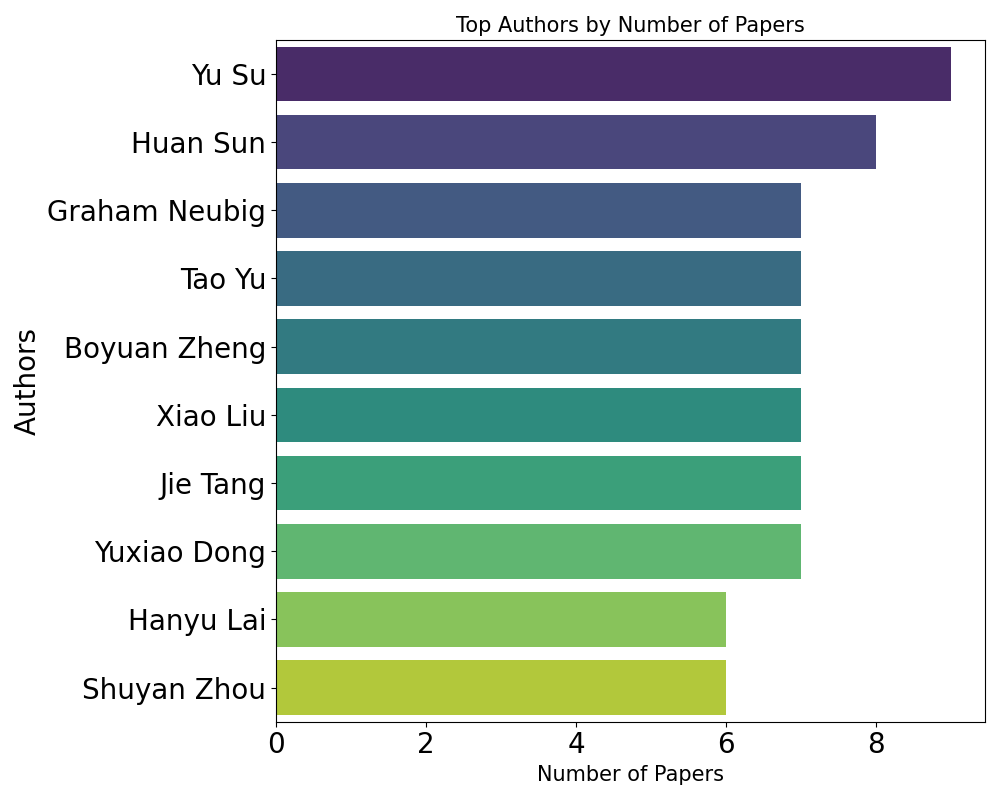
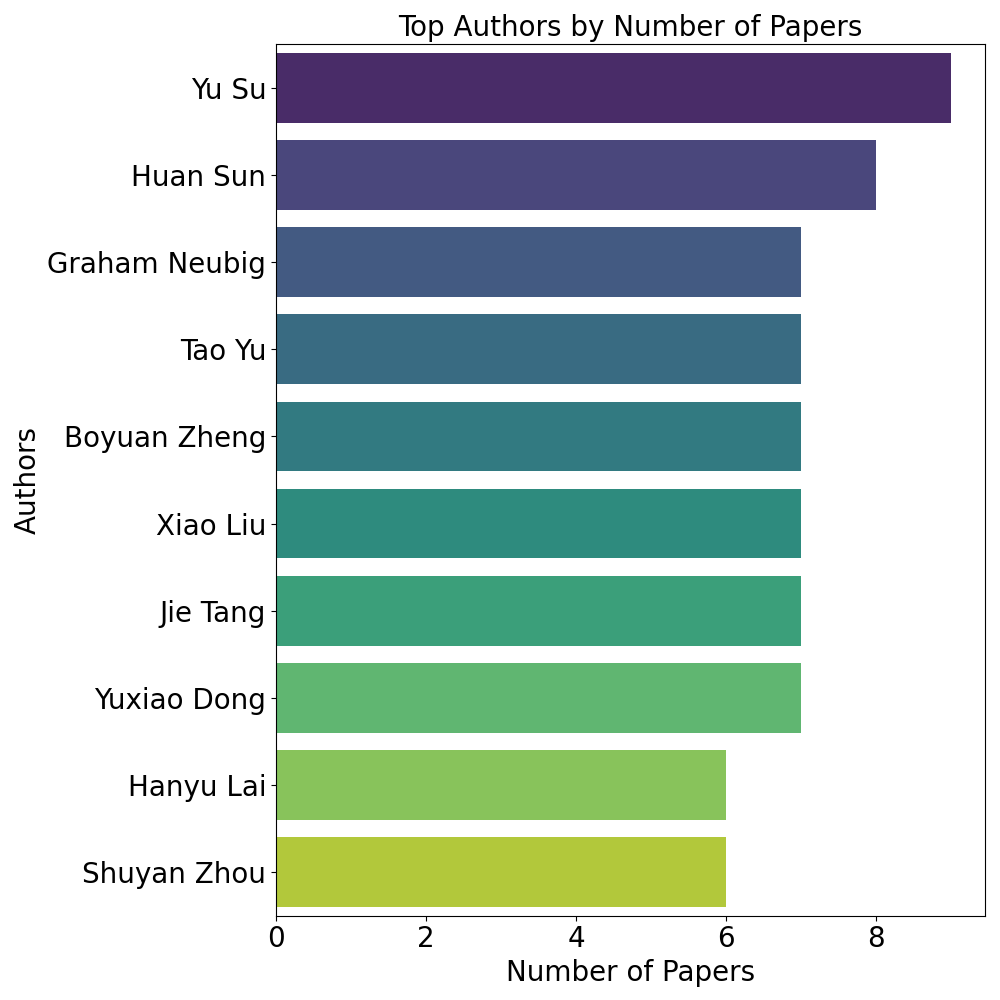
update

diff --git a/update_template_or_data/utils/scripts/sort_by_date.py b/update_template_or_data/utils/scripts/sort_by_date.py
@@ -189,12 +189,12 @@ top_15_authors = [author for author, _ in author_counter.most_common(num_top_aut
 top_15_counts = [author_counter[author] for author in top_15_authors]
 
 # 5. 创建条形图
-plt.figure(figsize=(10, 8))  # 设置图表大小
+plt.figure(figsize=(10, 10))  # 设置图表大小
 sns.barplot(x=top_15_counts, y=top_15_authors, palette="viridis")
 
 # 6. 设置图表标题和标签
-plt.title("Top Authors by Number of Papers", fontsize=15)
-plt.xlabel("Number of Papers", fontsize=15)
+plt.title("Top Authors by Number of Papers", fontsize=20)
+plt.xlabel("Number of Papers", fontsize=20)
 plt.ylabel("Authors", fontsize=20)
 
 # 7. 美化图表（可选）
@@ -242,7 +242,7 @@ keyword_counts = Counter(all_keywords)
 print(keyword_counts)
 wordcloud = WordCloud(
     width=1000,
-    height=800,
+    height=1000,
     background_color="white",
     colormap="viridis",
     contour_width=0,
@@ -250,7 +250,7 @@ wordcloud = WordCloud(
 ).generate_from_frequencies(keyword_counts)
 
 # Reduce DPI for better scaling
-plt.figure(figsize=(10, 8))
+plt.figure(figsize=(10, 10))
 plt.imshow(wordcloud, interpolation='bilinear')
 plt.axis('off')
 plt.tight_layout(pad=0)

diff --git a/update_template_or_data/update_paper_list.md b/update_template_or_data/update_paper_list.md
@@ -169,6 +169,15 @@
     - 🔑 Key: [dataset], [framework], [synthetic data]
     - 📖 TLDR: The *EDGE* framework proposes an innovative approach to improve GUI understanding and interaction capabilities in vision-language models through large-scale, multi-granularity synthetic data generation. By leveraging webpage data, EDGE minimizes the need for manual annotations and enhances the adaptability of models across desktop and mobile GUI environments. Evaluations show its effectiveness in diverse GUI-related tasks, contributing significantly to autonomous agent development in GUI navigation and interaction.
 
+- [VideoWebArena: Evaluating Long Context Multimodal Agents with Video Understanding Web Tasks](https://doi.org/10.48550/arXiv.2410.19100)
+    - Lawrence Jang, Yinheng Li, Charles Ding, Justin Lin, Paul Pu Liang, Dan Zhao, Rogerio Bonatti, Kazuhito Koishida
+    - 🏛 Institutions: CMU, MIT, NYU, Microsoft
+    - 📅 Date: October 24, 2024
+    - 📑 Publisher: arXiv
+    - 💻 Env: [Web]
+    - 🔑 Key: [benchmark], [dataset], [video understanding], [long-context], [VideoWA]
+    - 📖 TLDR: This paper introduces **VideoWebArena (VideoWA)**, a benchmark assessing multimodal agents in video-based tasks. It features over 2,000 tasks focused on skill and factual retention, using video tutorials to simulate long-context environments. Results highlight current challenges in agentic abilities, providing a critical testbed for long-context video understanding improvements.
+
 - [AgentStore: Scalable Integration of Heterogeneous Agents As Specialized Generalist Computer Assistant](https://arxiv.org/abs/2410.18603)
     - Chengyou Jia, Minnan Luo, Zhuohang Dang, Qiushi Sun, Fangzhi Xu, Junlin Hu, Tianbao Xie, Zhiyong Wu
     - 🏛 Institutions: XJTU, Shanghai AI Lab, HKU
@@ -186,15 +195,6 @@
     - 💻 Env: [Web]
     - 🔑 Key: [API-based agent], [hybrid agent], [benchmark], [WebArena], [SOTA performance]
     - 📖 TLDR: This paper introduces API-based and hybrid agents designed to execute online tasks by accessing both APIs and traditional web browsing interfaces. In evaluations using WebArena, a benchmark for web navigation, the API-based agent achieves higher performance than browser-based agents, and the hybrid model achieves a success rate of 35.8%, setting a new state-of-the-art (SOTA) in task-agnostic web navigation. The findings highlight the efficiency and reliability gains of API interactions for web agents.
-
-- [VideoWebArena: Evaluating Long Context Multimodal Agents with Video Understanding Web Tasks](https://doi.org/10.48550/arXiv.2410.19100)
-    - Lawrence Jang, Yinheng Li, Charles Ding, Justin Lin, Paul Pu Liang, Dan Zhao, Rogerio Bonatti, Kazuhito Koishida
-    - 🏛 Institutions: CMU, MIT, NYU, Microsoft
-    - 📅 Date: October 24, 2024
-    - 📑 Publisher: arXiv
-    - 💻 Env: [Web]
-    - 🔑 Key: [benchmark], [dataset], [video understanding], [long-context], [VideoWA]
-    - 📖 TLDR: This paper introduces **VideoWebArena (VideoWA)**, a benchmark assessing multimodal agents in video-based tasks. It features over 2,000 tasks focused on skill and factual retention, using video tutorials to simulate long-context environments. Results highlight current challenges in agentic abilities, providing a critical testbed for long-context video understanding improvements.
 
 - [MobileSafetyBench: Evaluating Safety of Autonomous Agents in Mobile Device Control](https://arxiv.org/abs/2410.17520)
     - Juyong Lee, Dongyoon Hahm, June Suk Choi, W. Bradley Knox, Kimin Lee
@@ -268,15 +268,6 @@
     - 🔑 Key: [framework], [autonomous GUI interaction], [experience-augmented hierarchical planning]
     - 📖 TLDR: This paper introduces Agent S, an open agentic framework that enables autonomous interaction with computers through a Graphical User Interface (GUI). The system addresses key challenges in automating computer tasks through experience-augmented hierarchical planning and an Agent-Computer Interface (ACI). Agent S demonstrates significant improvements over baselines on the OSWorld benchmark, achieving a 20.58% success rate (83.6% relative improvement). The framework shows generalizability across different operating systems and provides insights for developing more effective GUI agents.
 
-- [ST-WebAgentBench: A Benchmark for Evaluating Safety and Trustworthiness in Web Agents](https://sites.google.com/view/st-webagentbench/home)
-    - Ido Levy, Ben Wiesel, Sami Marreed, Alon Oved, Avi Yaeli, Segev Shlomov
-    - 🏛 Institutions: IBM Research
-    - 📅 Date: October 9, 2024
-    - 📑 Publisher: arXiv
-    - 💻 Env: [Web]
-    - 🔑 Key: [benchmark], [safety], [trustworthiness], [ST-WebAgentBench]
-    - 📖 TLDR: This paper introduces **ST-WebAgentBench**, a benchmark designed to evaluate the safety and trustworthiness of web agents in enterprise contexts. It defines safe and trustworthy agent behavior, outlines the structure of safety policies, and introduces the "Completion under Policies" metric to assess agent performance. The study reveals that current state-of-the-art agents struggle with policy adherence, highlighting the need for improved policy awareness and compliance in web agents.
-
 - [TinyClick: Single-Turn Agent for Empowering GUI Automation](https://arxiv.org/abs/2410.11871)
     - Pawel Pawlowski, Krystian Zawistowski, Wojciech Lapacz, Marcin Skorupa, Adam Wiacek, Sebastien Postansque, Jakub Hoscilowicz
     - 🏛 Institutions: Samsung R&D Poland, Warsaw University of Technology
@@ -294,6 +285,15 @@
     - 💻 Env: [Mobile]
     - 🔑 Key: [framework], [model], [SeeClick], [AITW benchmark]
     - 📖 TLDR: The paper introduces *ClickAgent*, a framework that enhances autonomous agents' interaction with mobile UIs by improving their ability to locate interface elements accurately. This is achieved through a dual-component system where an MLLM performs reasoning and action planning, while a dedicated UI location model (e.g., SeeClick) handles element identification. ClickAgent, evaluated on the AITW benchmark and tested on both emulators and real Android devices, surpasses other agents like CogAgent and AppAgent in task success rate, advancing automation reliability on mobile platforms.
+
+- [ST-WebAgentBench: A Benchmark for Evaluating Safety and Trustworthiness in Web Agents](https://sites.google.com/view/st-webagentbench/home)
+    - Ido Levy, Ben Wiesel, Sami Marreed, Alon Oved, Avi Yaeli, Segev Shlomov
+    - 🏛 Institutions: IBM Research
+    - 📅 Date: October 9, 2024
+    - 📑 Publisher: arXiv
+    - 💻 Env: [Web]
+    - 🔑 Key: [benchmark], [safety], [trustworthiness], [ST-WebAgentBench]
+    - 📖 TLDR: This paper introduces **ST-WebAgentBench**, a benchmark designed to evaluate the safety and trustworthiness of web agents in enterprise contexts. It defines safe and trustworthy agent behavior, outlines the structure of safety policies, and introduces the "Completion under Policies" metric to assess agent performance. The study reveals that current state-of-the-art agents struggle with policy adherence, highlighting the need for improved policy awareness and compliance in web agents.
 
 - [Navigating the Digital World as Humans Do: Universal Visual Grounding for GUI Agents](https://osu-nlp-group.github.io/UGround/)
     - Boyu Gou, Ruochen Wang, Boyuan Zheng, Yucheng Xie, Cheng Chang, Yiheng Shu, Haotian Sun, Yu Su
@@ -448,15 +448,6 @@
     - 🔑 Key: [framework], [AppAgent v2]
     - 📖 TLDR: This work presents *AppAgent v2*, a novel LLM-based multimodal agent framework for mobile devices capable of navigating applications by emulating human-like interactions such as tapping and swiping. The agent constructs a flexible action space that enhances adaptability across various applications, including parsing text and vision descriptions. It operates through two main phases: exploration and deployment, utilizing retrieval-augmented generation (RAG) technology to efficiently retrieve and update information from a knowledge base, thereby empowering the agent to perform tasks effectively and accurately.
 
-- [OmniParser for Pure Vision Based GUI Agent](https://microsoft.github.io/OmniParser/)
-    - Yadong Lu, Jianwei Yang, Yelong Shen, Ahmed Awadallah
-    - 🏛 Institutions: Microsoft Research, Microsoft Gen AI
-    - 📅 Date: August 1, 2024
-    - 📑 Publisher: arXiv
-    - 💻 Env: [GUI]
-    - 🔑 Key: [framework], [dataset], [OmniParser]
-    - 📖 TLDR: This paper introduces **OmniParser**, a method for parsing user interface screenshots into structured elements, enhancing the ability of models like GPT-4V to generate actions accurately grounded in corresponding UI regions. The authors curated datasets for interactable icon detection and icon description, fine-tuning models to parse interactable regions and extract functional semantics of UI elements.
-
 - [CoCo-Agent: A Comprehensive Cognitive MLLM Agent for Smartphone GUI Automation](https://aclanthology.org/2024.findings-acl.539)
     - Xinbei Ma, Zhuosheng Zhang, Hai Zhao
     - 🏛 Institutions: SJTU
@@ -474,6 +465,15 @@
     - 💻 Env: [General]
     - 🔑 Key: [multimodal agents], [environmental distractions], [robustness]
     - 📖 TLDR: This paper highlights the vulnerability of multimodal agents to environmental distractions. The researchers demonstrate that these agents, which process multiple types of input (e.g., text, images, audio), can be significantly impacted by irrelevant or misleading environmental cues. The study provides insights into the limitations of current multimodal systems and emphasizes the need for more robust architectures that can filter out distractions and maintain focus on relevant information in complex, real-world environments.
+
+- [OmniParser for Pure Vision Based GUI Agent](https://microsoft.github.io/OmniParser/)
+    - Yadong Lu, Jianwei Yang, Yelong Shen, Ahmed Awadallah
+    - 🏛 Institutions: Microsoft Research, Microsoft Gen AI
+    - 📅 Date: August 1, 2024
+    - 📑 Publisher: arXiv
+    - 💻 Env: [GUI]
+    - 🔑 Key: [framework], [dataset], [OmniParser]
+    - 📖 TLDR: This paper introduces **OmniParser**, a method for parsing user interface screenshots into structured elements, enhancing the ability of models like GPT-4V to generate actions accurately grounded in corresponding UI regions. The authors curated datasets for interactable icon detection and icon description, fine-tuning models to parse interactable regions and extract functional semantics of UI elements.
 
 - [OfficeBench: Benchmarking Language Agents across Multiple Applications for Office Automation](https://arxiv.org/abs/2407.19056)
     - Zilong Wang, Yuedong Cui, Li Zhong, Zimin Zhang, Da Yin, Bill Yuchen Lin, Jingbo Shang
@@ -547,15 +547,6 @@
     - 🔑 Key: [framework], [tool formulation], [multi-agent collaboration], [MobileExperts]
     - 📖 TLDR: This paper introduces *MobileExperts*, a framework that enhances autonomous operations on mobile devices by dynamically assembling agent teams based on user requirements. Each agent independently explores and formulates tools to evolve into an expert, improving efficiency and reducing reasoning costs.
 
-- [AMEX: Android Multi-annotation Expo Dataset for Mobile GUI Agents](https://yuxiangchai.github.io/AMEX/)
-    - Yuxiang Chai, Siyuan Huang, Yazhe Niu, Han Xiao, Liang Liu, Dingyu Zhang, Peng Gao, Shuai Ren, Hongsheng Li
-    - 🏛 Institutions: CUHK, SJTU, Shanghai AI Lab, vivo AI Lab
-    - 📅 Date: July 3, 2024
-    - 📑 Publisher: arXiv
-    - 💻 Env: [Mobile]
-    - 🔑 Key: [dataset], [benchmark], [AMEX]
-    - 📖 TLDR: This paper introduces the **Android Multi-annotation EXpo (AMEX)**, a comprehensive dataset designed for training and evaluating mobile GUI-control agents. AMEX comprises over 104K high-resolution screenshots from 110 popular mobile applications, annotated at multiple levels, including GUI interactive element grounding, functionality descriptions, and complex natural language instructions. The dataset aims to advance research on AI agents capable of completing complex tasks by interacting directly with mobile device GUIs.
-
 - [CRAB: Cross-environment Agent Benchmark for Multimodal Language Model Agents](https://arxiv.org/abs/2407.01511)
     - Tianqi Xu, Linyao Chen, Dai-Jie Wu, Yanjun Chen, Zecheng Zhang, Xiang Yao, Zhiqiang Xie, Yongchao Chen, Shilong Liu, Bochen Qian, Philip Torr, Bernard Ghanem, Guohao Li
     - 🏛 Institutions: KAUST, UTokyo, CMU, Stanford, Harvard, Tsinghua, SUSTech, Oxford
@@ -573,6 +564,15 @@
     - 💻 Env: [Mobile]
     - 🔑 Key: [framework], [VisionDroid]
     - 📖 TLDR: The paper presents **VisionDroid**, a vision-driven automated GUI testing approach utilizing Multimodal Large Language Models (MLLM) to detect non-crash functional bugs in mobile applications. By extracting GUI text information and aligning it with screenshots, VisionDroid enables MLLM to understand GUI context, facilitating deeper and function-oriented exploration. The approach segments exploration history into logically cohesive parts, prompting MLLM for bug detection, demonstrating superior performance over existing methods.
+
+- [AMEX: Android Multi-annotation Expo Dataset for Mobile GUI Agents](https://yuxiangchai.github.io/AMEX/)
+    - Yuxiang Chai, Siyuan Huang, Yazhe Niu, Han Xiao, Liang Liu, Dingyu Zhang, Peng Gao, Shuai Ren, Hongsheng Li
+    - 🏛 Institutions: CUHK, SJTU, Shanghai AI Lab, vivo AI Lab
+    - 📅 Date: July 3, 2024
+    - 📑 Publisher: arXiv
+    - 💻 Env: [Mobile]
+    - 🔑 Key: [dataset], [benchmark], [AMEX]
+    - 📖 TLDR: This paper introduces the **Android Multi-annotation EXpo (AMEX)**, a comprehensive dataset designed for training and evaluating mobile GUI-control agents. AMEX comprises over 104K high-resolution screenshots from 110 popular mobile applications, annotated at multiple levels, including GUI interactive element grounding, functionality descriptions, and complex natural language instructions. The dataset aims to advance research on AI agents capable of completing complex tasks by interacting directly with mobile device GUIs.
 
 - [Read Anywhere Pointed: Layout-aware GUI Screen Reading with Tree-of-Lens Grounding](https://screen-point-and-read.github.io/)
     - Yue Fan, Lei Ding, Ching-Chen Kuo, Shan Jiang, Yang Zhao, Xinze Guan, Jie Yang, Yi Zhang, Xin Eric Wang
@@ -718,6 +718,15 @@
     - 🔑 Key: [framework], [multi-agent], [planning], [decision-making], [reflection]
     - 📖 TLDR: The paper presents **Mobile-Agent-v2**, a multi-agent architecture designed to assist with mobile device operations. It comprises three agents: a planning agent that generates task progress, a decision agent that navigates tasks using a memory unit, and a reflection agent that corrects erroneous operations. This collaborative approach addresses challenges in navigation and long-context input scenarios, achieving over a 30% improvement in task completion compared to single-agent architectures.
 
+- [Visual Grounding for User Interfaces](https://aclanthology.org/2024.naacl-industry.9/)
+    - Yijun Qian, Yujie Lu, Alexander Hauptmann, Oriana Riva
+    - 🏛 Institutions: CMU, UCSB
+    - 📅 Date: June 2024
+    - 📑 Publisher: NAACL 2024
+    - 💻 Env: [GUI]
+    - 🔑 Key: [framework], [visual grounding], [UI element localization], [LVG]
+    - 📖 TLDR: This work introduces the task of visual UI grounding, which unifies detection and grounding by enabling models to identify UI elements referenced by natural language commands solely from visual input. The authors propose **LVG**, a model that outperforms baselines pre-trained on larger datasets by over 4.9 points in top-1 accuracy, demonstrating its effectiveness in localizing referenced UI elements without relying on UI metadata.
+
 - [WebSuite: Systematically Evaluating Why Web Agents Fail](https://arxiv.org/abs/2406.01623)
     - Eric Li, Jim Waldo
     - 🏛 Institutions: Harvard
@@ -735,15 +744,6 @@
     - 💻 Env: [Desktop, Web]
     - 🔑 Key: [benchmark], [instructional videos], [visual planning], [hierarchical task decomposition], [complex software interaction]
     - 📖 TLDR: VideoGUI presents a benchmark for evaluating GUI automation on tasks derived from instructional videos, focusing on visually intensive applications like Adobe Photoshop and video editing software. The benchmark includes 178 tasks, with a hierarchical evaluation method distinguishing high-level planning, mid-level procedural steps, and precise action execution. VideoGUI reveals current model limitations in complex visual tasks, marking a significant step toward improved visual planning in GUI automation.
-
-- [Visual Grounding for User Interfaces](https://aclanthology.org/2024.naacl-industry.9/)
-    - Yijun Qian, Yujie Lu, Alexander Hauptmann, Oriana Riva
-    - 🏛 Institutions: CMU, UCSB
-    - 📅 Date: June 2024
-    - 📑 Publisher: NAACL 2024
-    - 💻 Env: [GUI]
-    - 🔑 Key: [framework], [visual grounding], [UI element localization], [LVG]
-    - 📖 TLDR: This work introduces the task of visual UI grounding, which unifies detection and grounding by enabling models to identify UI elements referenced by natural language commands solely from visual input. The authors propose **LVG**, a model that outperforms baselines pre-trained on larger datasets by over 4.9 points in top-1 accuracy, demonstrating its effectiveness in localizing referenced UI elements without relying on UI metadata.
 
 - [Large Language Models Can Self-Improve At Web Agent Tasks](https://arxiv.org/abs/2405.20309)
     - Ajay Patel, Markus Hofmarcher, Claudiu Leoveanu-Condrei, Marius-Constantin Dinu, Chris Callison-Burch, Sepp Hochreiter

diff --git a/paper_by_env/env_web.md b/paper_by_env/env_web.md
@@ -79,15 +79,6 @@
     - 🔑 Key: [framework], [learning], [imitation learning], [exploration], [AI feedback]
     - 📖 TLDR: The paper presents **OpenWebVoyager**, an open-source framework for training web agents that explore real-world online environments autonomously. The framework employs a cycle of exploration, feedback, and optimization, enhancing agent capabilities through multimodal perception and iterative learning. Initial skills are acquired through imitation learning, followed by real-world exploration, where the agent’s performance is evaluated and refined through feedback loops.
 
-- [Beyond Browsing: API-Based Web Agents](https://arxiv.org/pdf/2410.16464)
-    - Yueqi Song, Frank Xu, Shuyan Zhou, Graham Neubig
-    - 🏛 Institutions: CMU
-    - 📅 Date: October 24, 2024
-    - 📑 Publisher: arXiv
-    - 💻 Env: [Web]
-    - 🔑 Key: [API-based agent], [hybrid agent], [benchmark], [WebArena], [SOTA performance]
-    - 📖 TLDR: This paper introduces API-based and hybrid agents designed to execute online tasks by accessing both APIs and traditional web browsing interfaces. In evaluations using WebArena, a benchmark for web navigation, the API-based agent achieves higher performance than browser-based agents, and the hybrid model achieves a success rate of 35.8%, setting a new state-of-the-art (SOTA) in task-agnostic web navigation. The findings highlight the efficiency and reliability gains of API interactions for web agents.
-
 - [VideoWebArena: Evaluating Long Context Multimodal Agents with Video Understanding Web Tasks](https://doi.org/10.48550/arXiv.2410.19100)
     - Lawrence Jang, Yinheng Li, Charles Ding, Justin Lin, Paul Pu Liang, Dan Zhao, Rogerio Bonatti, Kazuhito Koishida
     - 🏛 Institutions: CMU, MIT, NYU, Microsoft
@@ -96,6 +87,15 @@
     - 💻 Env: [Web]
     - 🔑 Key: [benchmark], [dataset], [video understanding], [long-context], [VideoWA]
     - 📖 TLDR: This paper introduces **VideoWebArena (VideoWA)**, a benchmark assessing multimodal agents in video-based tasks. It features over 2,000 tasks focused on skill and factual retention, using video tutorials to simulate long-context environments. Results highlight current challenges in agentic abilities, providing a critical testbed for long-context video understanding improvements.
+
+- [Beyond Browsing: API-Based Web Agents](https://arxiv.org/pdf/2410.16464)
+    - Yueqi Song, Frank Xu, Shuyan Zhou, Graham Neubig
+    - 🏛 Institutions: CMU
+    - 📅 Date: October 24, 2024
+    - 📑 Publisher: arXiv
+    - 💻 Env: [Web]
+    - 🔑 Key: [API-based agent], [hybrid agent], [benchmark], [WebArena], [SOTA performance]
+    - 📖 TLDR: This paper introduces API-based and hybrid agents designed to execute online tasks by accessing both APIs and traditional web browsing interfaces. In evaluations using WebArena, a benchmark for web navigation, the API-based agent achieves higher performance than browser-based agents, and the hybrid model achieves a success rate of 35.8%, setting a new state-of-the-art (SOTA) in task-agnostic web navigation. The findings highlight the efficiency and reliability gains of API interactions for web agents.
 
 - [Large Language Models Empowered Personalized Web Agents](https://ar5iv.org/abs/2410.17236)
     - Hongru Cai, Yongqi Li, Wenjie Wang, Fengbin Zhu, Xiaoyu Shen, Wenjie Li, Tat-Seng Chua
@@ -223,15 +223,6 @@
     - 🔑 Key: [framework], [dataset], [benchmark], [Mind2Web-Live], [key-node evaluation]
     - 📖 TLDR: This paper presents WebCanvas, an online evaluation framework for web agents designed to address the dynamic nature of web interactions. It introduces a key-node-based evaluation metric to capture critical actions or states necessary for task completion while disregarding noise from insignificant events or changed web elements. The framework includes the Mind2Web-Live dataset, a refined version of the original Mind2Web static dataset, containing 542 tasks with 2,439 intermediate evaluation states. Despite advancements, the best-performing model achieves a task success rate of 23.1%, highlighting substantial room for improvement.
 
-- [VideoGUI: A Benchmark for GUI Automation from Instructional Videos](https://arxiv.org/abs/2406.10227)
-    - Kevin Qinghong Lin, Linjie Li, Difei Gao, Qinchen Wu, Mingyi Yan, Zhengyuan Yang, Lijuan Wang, Mike Z. Shou
-    - 🏛 Institutions: Unknown
-    - 📅 Date: June 2024
-    - 📑 Publisher: NeurIPS 2024
-    - 💻 Env: [Desktop, Web]
-    - 🔑 Key: [benchmark], [instructional videos], [visual planning], [hierarchical task decomposition], [complex software interaction]
-    - 📖 TLDR: VideoGUI presents a benchmark for evaluating GUI automation on tasks derived from instructional videos, focusing on visually intensive applications like Adobe Photoshop and video editing software. The benchmark includes 178 tasks, with a hierarchical evaluation method distinguishing high-level planning, mid-level procedural steps, and precise action execution. VideoGUI reveals current model limitations in complex visual tasks, marking a significant step toward improved visual planning in GUI automation.
-
 - [WebSuite: Systematically Evaluating Why Web Agents Fail](https://arxiv.org/abs/2406.01623)
     - Eric Li, Jim Waldo
     - 🏛 Institutions: Harvard
@@ -240,6 +231,15 @@
     - 💻 Env: [Web]
     - 🔑 Key: [benchmark], [framework], [web agents], [failure analysis], [analysis], [task disaggregation]
     - 📖 TLDR: This paper introduces *WebSuite*, a diagnostic benchmark to investigate the causes of web agent failures. By categorizing agent tasks using a taxonomy of operational, informational, and navigational actions, WebSuite offers granular insights into the specific actions where agents struggle, like filtering or form completion. It enables detailed comparison across agents, identifying areas for architectural and UX adaptation to improve agent reliability and task success on the web.
+
+- [VideoGUI: A Benchmark for GUI Automation from Instructional Videos](https://arxiv.org/abs/2406.10227)
+    - Kevin Qinghong Lin, Linjie Li, Difei Gao, Qinchen Wu, Mingyi Yan, Zhengyuan Yang, Lijuan Wang, Mike Z. Shou
+    - 🏛 Institutions: Unknown
+    - 📅 Date: June 2024
+    - 📑 Publisher: NeurIPS 2024
+    - 💻 Env: [Desktop, Web]
+    - 🔑 Key: [benchmark], [instructional videos], [visual planning], [hierarchical task decomposition], [complex software interaction]
+    - 📖 TLDR: VideoGUI presents a benchmark for evaluating GUI automation on tasks derived from instructional videos, focusing on visually intensive applications like Adobe Photoshop and video editing software. The benchmark includes 178 tasks, with a hierarchical evaluation method distinguishing high-level planning, mid-level procedural steps, and precise action execution. VideoGUI reveals current model limitations in complex visual tasks, marking a significant step toward improved visual planning in GUI automation.
 
 - [Large Language Models Can Self-Improve At Web Agent Tasks](https://arxiv.org/abs/2405.20309)
     - Ajay Patel, Markus Hofmarcher, Claudiu Leoveanu-Condrei, Marius-Constantin Dinu, Chris Callison-Burch, Sepp Hochreiter
